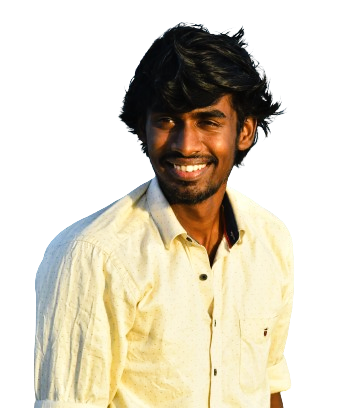
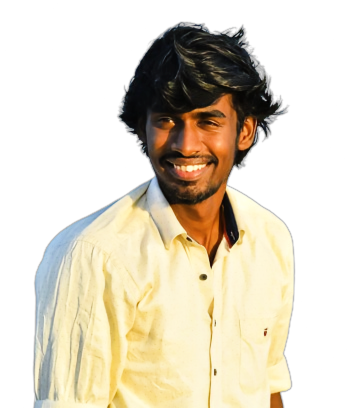
vanakam 2.10

diff --git a/src/pages/About.jsx b/src/pages/About.jsx
@@ -6,16 +6,16 @@ function About() {
     <div className='flex  md:flex-row-reverse flex-col  bg-gradient-to-r from-white to to-blue-500 ' id='about'  >
       <div className='pt-9 pr-16 text-left pl-5 md:pl-2'>
         <div className='text-xl w-16 md:text-5xl md:text-center md:w-36 border-b-4 border-yellow-500'>About</div>
-          <div className='pt-4 w-full text-sm md:text-[18px] font-logodis'>
-            <div className='pt-2.5'>Aspiring software developer with expertise in Java, MySQL, HTML, CSS, Javascript, UNIDATA, and MERN stack.</div>
-            <div className='pt-2.5'>Proven track record of improving deployment efficiency, user satisfaction, and reducing application downtime.</div>
-            <div className='pt-2.5'>Recognized for strategic database management, effective team coordination, and rapid ticket resolution.</div>
-            <div className='pt-2.5 pb-2'>Acknowledged for vocational excellence and community service contributions by the Rotary Club of Tirunelveli.</div>
+          <div className='pt-4 w-full text-sm font-logodis md:text-[20px]'>
+            <div className='pt-[0.8rem]'>Aspiring software developer with expertise in Java, MySQL, HTML, CSS, Javascript, UNIDATA, and MERN stack.</div>
+            <div className='pt-[0.8rem]'>Proven track record of improving deployment efficiency, user satisfaction, and reducing application downtime.</div>
+            <div className='pt-[0.8rem]'>Recognized for strategic database management, effective team coordination, and rapid ticket resolution.</div>
+            <div className='pt-[0.8rem] pb-5'>Acknowledged for vocational excellence and community service contributions by the Rotary Club of Tirunelveli.</div>
 
           </div>
       </div>
           <div>
-            <img src={myself} alt='Rama Subramanian'className='ml-4 ' ></img>
+            <img src={myself} alt='Rama Subramanian'className='ml-1 h-full size-[27rem]' ></img>
           </div>
     </div>
   )

diff --git a/src/pages/contact.jsx b/src/pages/contact.jsx
@@ -4,7 +4,7 @@ import { FaGithubSquare } from "react-icons/fa";
 
 function Contact() {
   return (
-    <div className='md:h-[19rem] bg-gray-700 text-white flex flex-col' id='contact'>
+    <div className='md:h-[19rem] bg-[#343434] text-white flex flex-col' id='contact'>
     <div className='text-5xl font-namedis pt-5' >Contact</div>
     <div className='md:pt-10 pt-5 flex-col  md:flex-row align-middle'>
         <div className='md:text-2xl  font-logodis md:pl-[5rem]'>Email:<a href='mailto:ramasubramanianponni37@gmail.com' className='pl-2 underline hover:text-blue-400'>ramasubramanianponni37@gmail.com</a></div>

diff --git a/src/pages/Home.jsx b/src/pages/Home.jsx
@@ -8,7 +8,7 @@ import { FaGithubSquare } from "react-icons/fa";
 
 function Home() {
   return (
-    <section className="flex justify-center md:justify-between pt-10 md:pt-20  font-namedis " id='home'>
+    <section className=" flex justify-center md:justify-between pt-10 md:pt-20  font-namedis " id='home'>
      
     <div className='text-3xl  md:text-5xl sm:text-5xl pl-1  text-black md: text-blue-50'>
         <div className='md:pl-11'>I'm <span className='text-blue-500'>Rama </span> Subramanian</div>

diff --git a/src/App.css b/src/App.css
@@ -1,16 +1,11 @@
 #root {
   max-width: 1280px;
   margin: 0 auto;
-  padding: 2rem;
+  
   text-align: center;
 }
 
-.logo {
-  height: 6em;
-  padding: 1.5em;
-  will-change: filter;
-  transition: filter 300ms;
-}
+
 .logo:hover {
   filter: drop-shadow(0 0 2em #646cffaa);
 }

diff --git a/src/index.css b/src/index.css
@@ -35,7 +35,7 @@ header ul li {
 }
 
 #root section{
-    @apply bg-gradient-to-l from-white to-yellow-500 w-full h-80 
+    @apply bg-sky-950  w-full h-80 
 }
 
 
